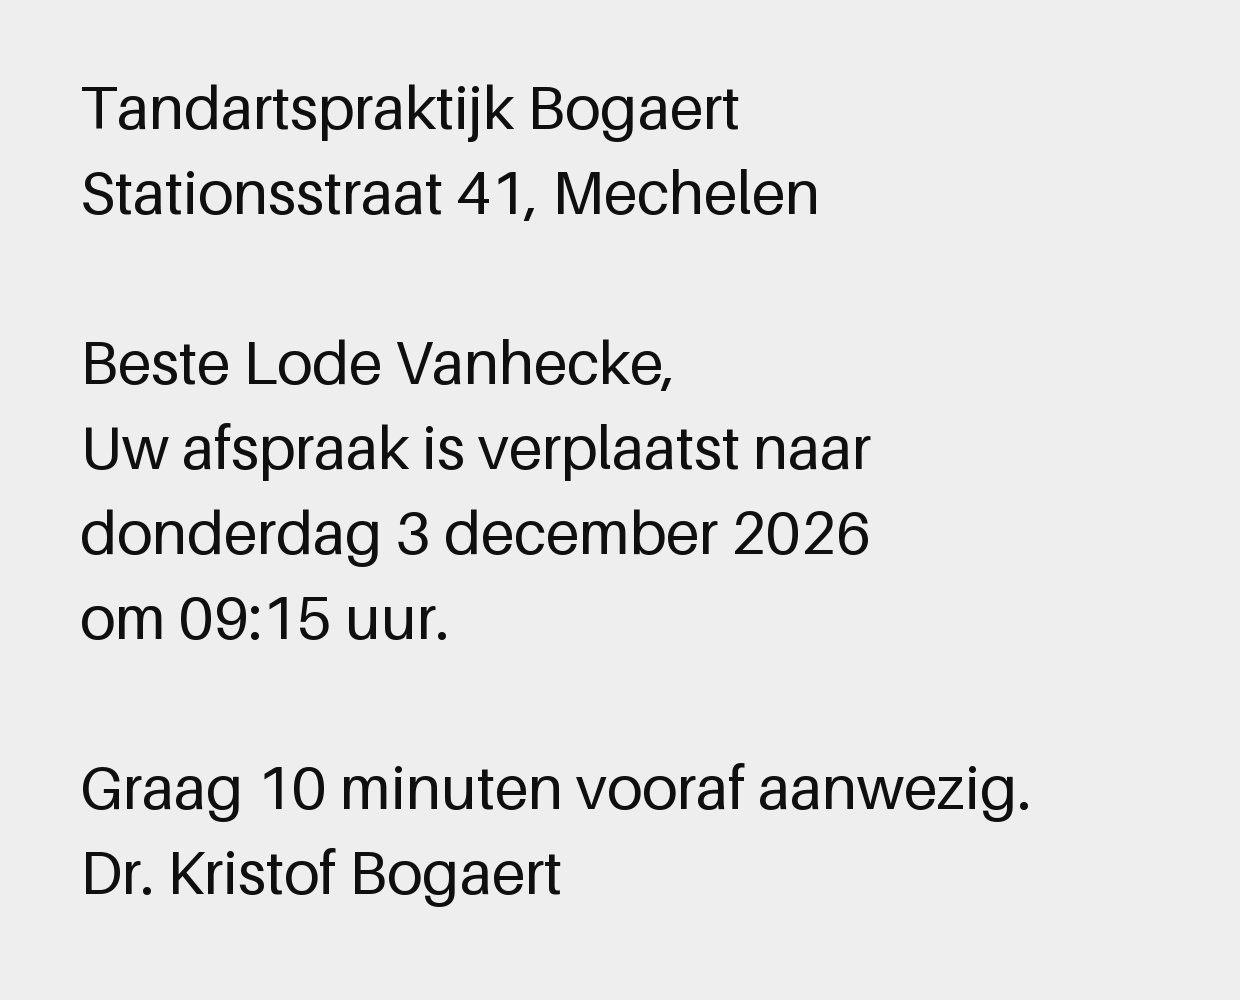
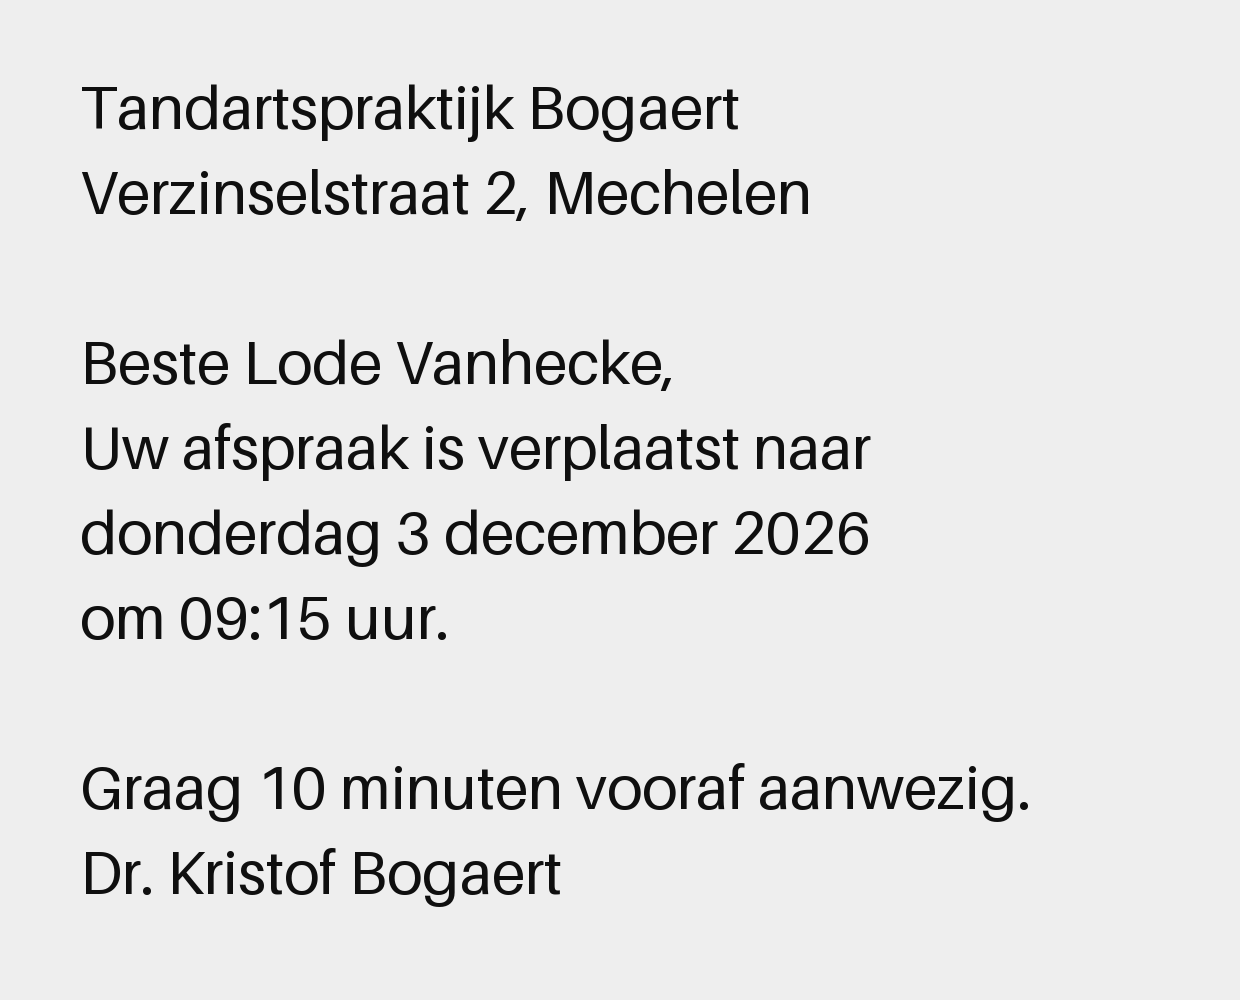
fix(testaccount): use plainly invented names, streets and numbers
The made-up person no longer needs "(verzonnen)" markers: every name on
those lines is now plainly invented. Real brands (Kijkwijzer, Nordisk),
real streets (Noorderlaan, Stationsstraat, Kerkstraat) and numbers that
could belong to someone now have invented stand-ins, in the engrams, the
quote PDF and the dentist's letter. The two scenarios that name a renamed
company follow.

The budget now agrees with the insurance engram (149 a month) and the
bathroom engram (10.200 saved by the end of 2026). Arne, 4, is in the
second year of nursery school. The school note points to the parents'
evening instead of naming a second event on 26 November.

The fixture is version 2.

Changed region(s): [[0.0613, 0.155, 0.6742, 0.217]]

diff --git a/scripts/conversations/make_files.py b/scripts/conversations/make_files.py
@@ -18,8 +18,8 @@ FILES = REPO / "src" / "reef" / "testaccount" / "person" / "files"
 
 QUOTE_PAGES = [
     (
-        "Offerte Fleetboard\nKuipke Logistics NV, Noorderlaan 118, Antwerpen\n"
-        "Klant: Transport Van den Abeele\nOpgemaakt door: Anouk Verbeke\n"
+        "Offerte Fleetboard\nKuipke Logistics NV, Denkbeeldkaai 1, Antwerpen\n"
+        "Klant: Transport Schildpadsnel\nOpgemaakt door: Anouk Verbeke\n"
         "Datum: 5 november 2026\nGeldig tot: 5 januari 2027"
     ),
     (
@@ -32,13 +32,13 @@ QUOTE_PAGES = [
     ),
     (
         "3. Planning\nStart: 1 december 2026\nEerste oplevering: 18 januari 2027\n"
-        "Contactpersoon bij Van den Abeele:\nSabine Leemans"
+        "Contactpersoon bij Schildpadsnel:\nSabine Leemans"
     ),
 ]
 
 SCAN_LINES = [
     "Tandartspraktijk Bogaert",
-    "Stationsstraat 41, Mechelen",
+    "Verzinselstraat 2, Mechelen",
     "",
     "Beste Lode Vanhecke,",
     "Uw afspraak is verplaatst naar",

diff --git a/src/reef/testaccount/person/engrams/household/insurance.md b/src/reef/testaccount/person/engrams/household/insurance.md
@@ -5,7 +5,7 @@ tags = ["household", "finance"]
 
 # Verzekeringen
 
-- Auto (omnium): Verzekering Zuidlicht (verzonnen), polis ZL-448-201, 612 euro per jaar, vervalt op 4 maart.
-- Brand en familiale: Verzekering Zuidlicht, polis ZL-448-390, 288 euro per jaar.
-- Hospitalisatie voor ons vieren: via het ziekenfonds Samen Sterk (verzonnen), 74 euro per maand.
-- Bij schade: bel 0800 12 345 en maak foto's. Zie [[household/car.md]] voor de auto.
+- Auto (omnium): Verzekering Kurkdroog, polis KD-448-201, 612 euro per jaar, vervalt op 4 maart.
+- Brand en familiale: Verzekering Kurkdroog, polis KD-448-390, 288 euro per jaar.
+- Hospitalisatie voor ons vieren: via het ziekenfonds De Pleisterdoos, 74 euro per maand.
+- Bij schade: bel 000 00 00 04 en maak foto's. Zie [[household/car.md]] voor de auto.

diff --git a/src/reef/testaccount/person/engrams/profile/contacts.md b/src/reef/testaccount/person/engrams/profile/contacts.md
@@ -5,10 +5,10 @@ tags = ["profile", "contacts"]
 
 # Contacten
 
-- **Sofie Claes** (partner), GSM 0471 55 01 01.
-- **Marleen Vanhecke** (mama), woont in Duffel, Kerkstraat 7. Verjaardag 2 februari.
+- **Sofie Claes** (partner), GSM 0000 00 00 01.
+- **Marleen Vanhecke** (mama), woont in Duffel, Nergensdreef 3. Verjaardag 2 februari.
 - **Dirk Vanhecke** (papa). Verjaardag 19 augustus.
 - **Bram Claes** (zwager), vader van neefje Lowie. Woont in Lier.
 - **Tibo Lambrecht** (collega en vriend), zie [[work/team.md]].
 - **Joris Peeters**, kinesist.
-- **Loodgieter Van Rompaey**, tel. 015 55 02 02, zie [[projects/bathroom-renovation.md]].
+- **Loodgieter Van Rompaey**, tel. 000 00 00 02, zie [[projects/bathroom-renovation.md]].

diff --git a/src/reef/testaccount/person/engrams/household/utilities.md b/src/reef/testaccount/person/engrams/household/utilities.md
@@ -5,8 +5,8 @@ tags = ["household", "finance"]
 
 # Energie en internet
 
-- Elektriciteit en gas: Stroomkracht (verzonnen). Voorschot 165 euro per maand. Jaarafrekening in maart.
+- Elektriciteit en gas: Vonkenfabriek. Voorschot 165 euro per maand. Jaarafrekening in maart.
 - Zonnepanelen: 8 panelen, 3,2 kWp, geplaatst in mei 2024.
 - Meterstanden op 1 november 2026: elektriciteit dag 18.402 kWh, nacht 9.115 kWh, gas 11.230 m3.
-- Internet: sinds 1 juni 2026 bij Nettie (verzonnen), glasvezel 500 Mbit, 49 euro per maand. Daarvoor bij Telenord, 62 euro.
+- Internet: sinds 1 juni 2026 bij Nettie, glasvezel 500 Mbit, 49 euro per maand. Daarvoor bij Kabelkikker, 62 euro.
 - Wifi: [[howto/wifi-router-reset.md]].

diff --git a/src/reef/testaccount/person/engrams/work/project-fleetboard.md b/src/reef/testaccount/person/engrams/work/project-fleetboard.md
@@ -9,7 +9,7 @@ Dashboard dat de positie en vertraging van vrachtwagens toont. Product owner: An
 
 - Stack: Python, Postgres, Dagster, een dashboard in Metabase.
 - Dagelijkse volume: ongeveer 2,4 miljoen GPS-punten.
-- Oorspronkelijke deadline voor de eerste klant (Transport Van den Abeele, verzonnen): 15 november 2026.
+- Oorspronkelijke deadline voor de eerste klant (Transport Schildpadsnel): 15 november 2026.
 - **Update 2026-11-03:** deadline verschoven naar 18 januari 2027, omdat de koppeling met de boordcomputers vertraging had.
 - Mijn deel: de pipeline van ruwe punten naar ritten. Zie [[work/howto-rebuild-trips.md]].
 - Besluiten: [[work/decisions-2026.md]].

diff --git a/src/reef/testaccount/person/engrams/projects/bathroom-renovation.md b/src/reef/testaccount/person/engrams/projects/bathroom-renovation.md
@@ -6,7 +6,7 @@ tags = ["project", "home"]
 # Badkamerverbouwing
 
 - Offerte van Loodgieter Van Rompaey: 11.800 euro inclusief btw. Start gepland op 11 januari 2027, duur drie weken.
-- Keuze tegels: grijze vloertegels 60 x 60, witte wandtegels, bij Tegelhuis Mechelen (verzonnen).
+- Keuze tegels: grijze vloertegels 60 x 60, witte wandtegels, bij Tegelhuis Tierelantijn.
 - **Update 2026-11-15:** inloopdouche in plaats van bad. Meerprijs 640 euro.
 - Budget totaal: 13.000 euro, gespaard 9.200 euro op 1 november 2026.
 - Tijdens de werken douchen we bij mama in Duffel ([[profile/contacts.md]]).

diff --git a/src/reef/testaccount/person/engrams/household/home.md b/src/reef/testaccount/person/engrams/household/home.md
@@ -6,7 +6,7 @@ tags = ["household"]
 # Ons huis
 
 - Adres: Zwaluwhofstraat 23, 2800 Mechelen. Gekocht in 2021, gebouwd in 1962.
-- Hypotheek bij Beukenbank (verzonnen): 1.450 euro per maand, rente 2,1 procent vast tot 2031.
+- Hypotheek bij Eekhoornbank: 1.450 euro per maand, rente 2,1 procent vast tot 2031.
 - Afvalkalender: restafval op dinsdag om de twee weken, PMD op vrijdag. Volgende restafval: 24 november 2026.
 - Verwarming: gasketel Vaillant uit 2015, onderhoud elk jaar in oktober. Laatste onderhoud 14 oktober 2026.
 - Energie en internet: zie [[household/utilities.md]].

diff --git a/src/reef/testaccount/person/engrams/finance/budget-2026.md b/src/reef/testaccount/person/engrams/finance/budget-2026.md
@@ -6,6 +6,6 @@ tags = ["finance"]
 # Budget 2026
 
 - Netto inkomen gezin: 6.350 euro per maand.
-- Vaste kosten: hypotheek 1.450, energie 165, internet 49, verzekeringen ongeveer 130 gemiddeld ([[household/insurance.md]]).
+- Vaste kosten: hypotheek 1.450, energie 165, internet 49, verzekeringen gemiddeld 149 ([[household/insurance.md]]).
 - Sparen: 800 euro per maand, waarvan 500 voor de badkamer ([[projects/bathroom-renovation.md]]).
-- Doel eind 2026: 9.700 euro in de verbouwingspot.
+- Doel eind 2026: 10.200 euro in de verbouwingspot.

diff --git a/src/reef/testaccount/person/engrams/household/sofie.md b/src/reef/testaccount/person/engrams/household/sofie.md
@@ -8,5 +8,5 @@ tags = ["household", "family"]
 - Geboren 8 juli 1989. Werkt als logopediste bij Praktijk Klankbord in Lier, vier dagen per week (niet op woensdag).
 - Sport: loopt op zaterdagochtend, 8 km. Doet mee aan de Lierse 10 miles op 14 maart 2027.
 - Verjaardag: 8 juli. Trouwdag: 21 september 2018.
-- Cadeau-idee voor Kerstmis: een nieuwe loopjas, maat S, Nordisk (verzonnen merk).
+- Cadeau-idee voor Kerstmis: een nieuwe loopjas, maat S, van het merk Hazewind.
 - Gezinsplanning: zie [[household/weekly-schedule.md]].

diff --git a/src/reef/testaccount/person/engrams/profile/preferences.md b/src/reef/testaccount/person/engrams/profile/preferences.md
@@ -7,6 +7,6 @@ tags = ["profile"]
 
 - Eten: vegetarisch op weekdagen, vis of vlees in het weekend. Allergisch voor hazelnoten.
 - Muziek bij het trainen: Bicep, Floating Points en oude Balthazar.
-- Boeken: leest nu *De Eeuw van de Zee* van Anke Mertens (verzonnen, 412 pagina's, bij pagina 188 op 20 november).
+- Boeken: leest nu *De Eeuw van de Inktvis* van Rozemarijn Kwastenaar (412 pagina's, bij pagina 188 op 20 november).
 - Kleding: maat M, schoenmaat 43.
 - Mails van Kuipke lees ik 's morgens, niet 's avonds.

diff --git a/src/reef/testaccount/person/engrams/household/car.md b/src/reef/testaccount/person/engrams/household/car.md
@@ -5,7 +5,7 @@ tags = ["household", "car"]
 
 # Auto
 
-- Huidige auto: Ford Puma, bouwjaar 2023, nummerplaat 1-ABC-123 (verzonnen). Gekocht op 4 maart 2026.
+- Huidige auto: Ford Puma, bouwjaar 2023, nummerplaat 1-ABC-123. Gekocht op 4 maart 2026.
 - Vorige auto: Skoda Octavia 2012, verkocht op 28 februari 2026 voor 3.900 euro aan een koper uit Willebroek.
 - Keuring: eerste keuring pas in 2027. Onderhoud bij Garage Smets in Mechelen, elke 15.000 km of jaarlijks.
 - Kilometerstand op 1 november 2026: 11.840.

diff --git a/src/reef/testaccount/person/engrams/profile/health.md b/src/reef/testaccount/person/engrams/profile/health.md
@@ -6,7 +6,7 @@ tags = ["profile", "health"]
 # Gezondheid
 
 ## Tandarts
-- Tandartspraktijk Bogaert, dr. Kristof Bogaert, Stationsstraat 41, Mechelen. Tel. 015 55 01 23.
+- Tandartspraktijk Bogaert, dr. Kristof Bogaert, Verzinselstraat 2, Mechelen. Tel. 000 00 00 03.
 - Controle stond op dinsdag 24 november 2026 om 14:30.
 - **Update 2026-11-10:** verplaatst naar donderdag 3 december 2026 om 09:15 omdat dinsdag botst met het werkoverleg.
 - Laatste detartrage: 12 mei 2026. Geen gaatjes.
